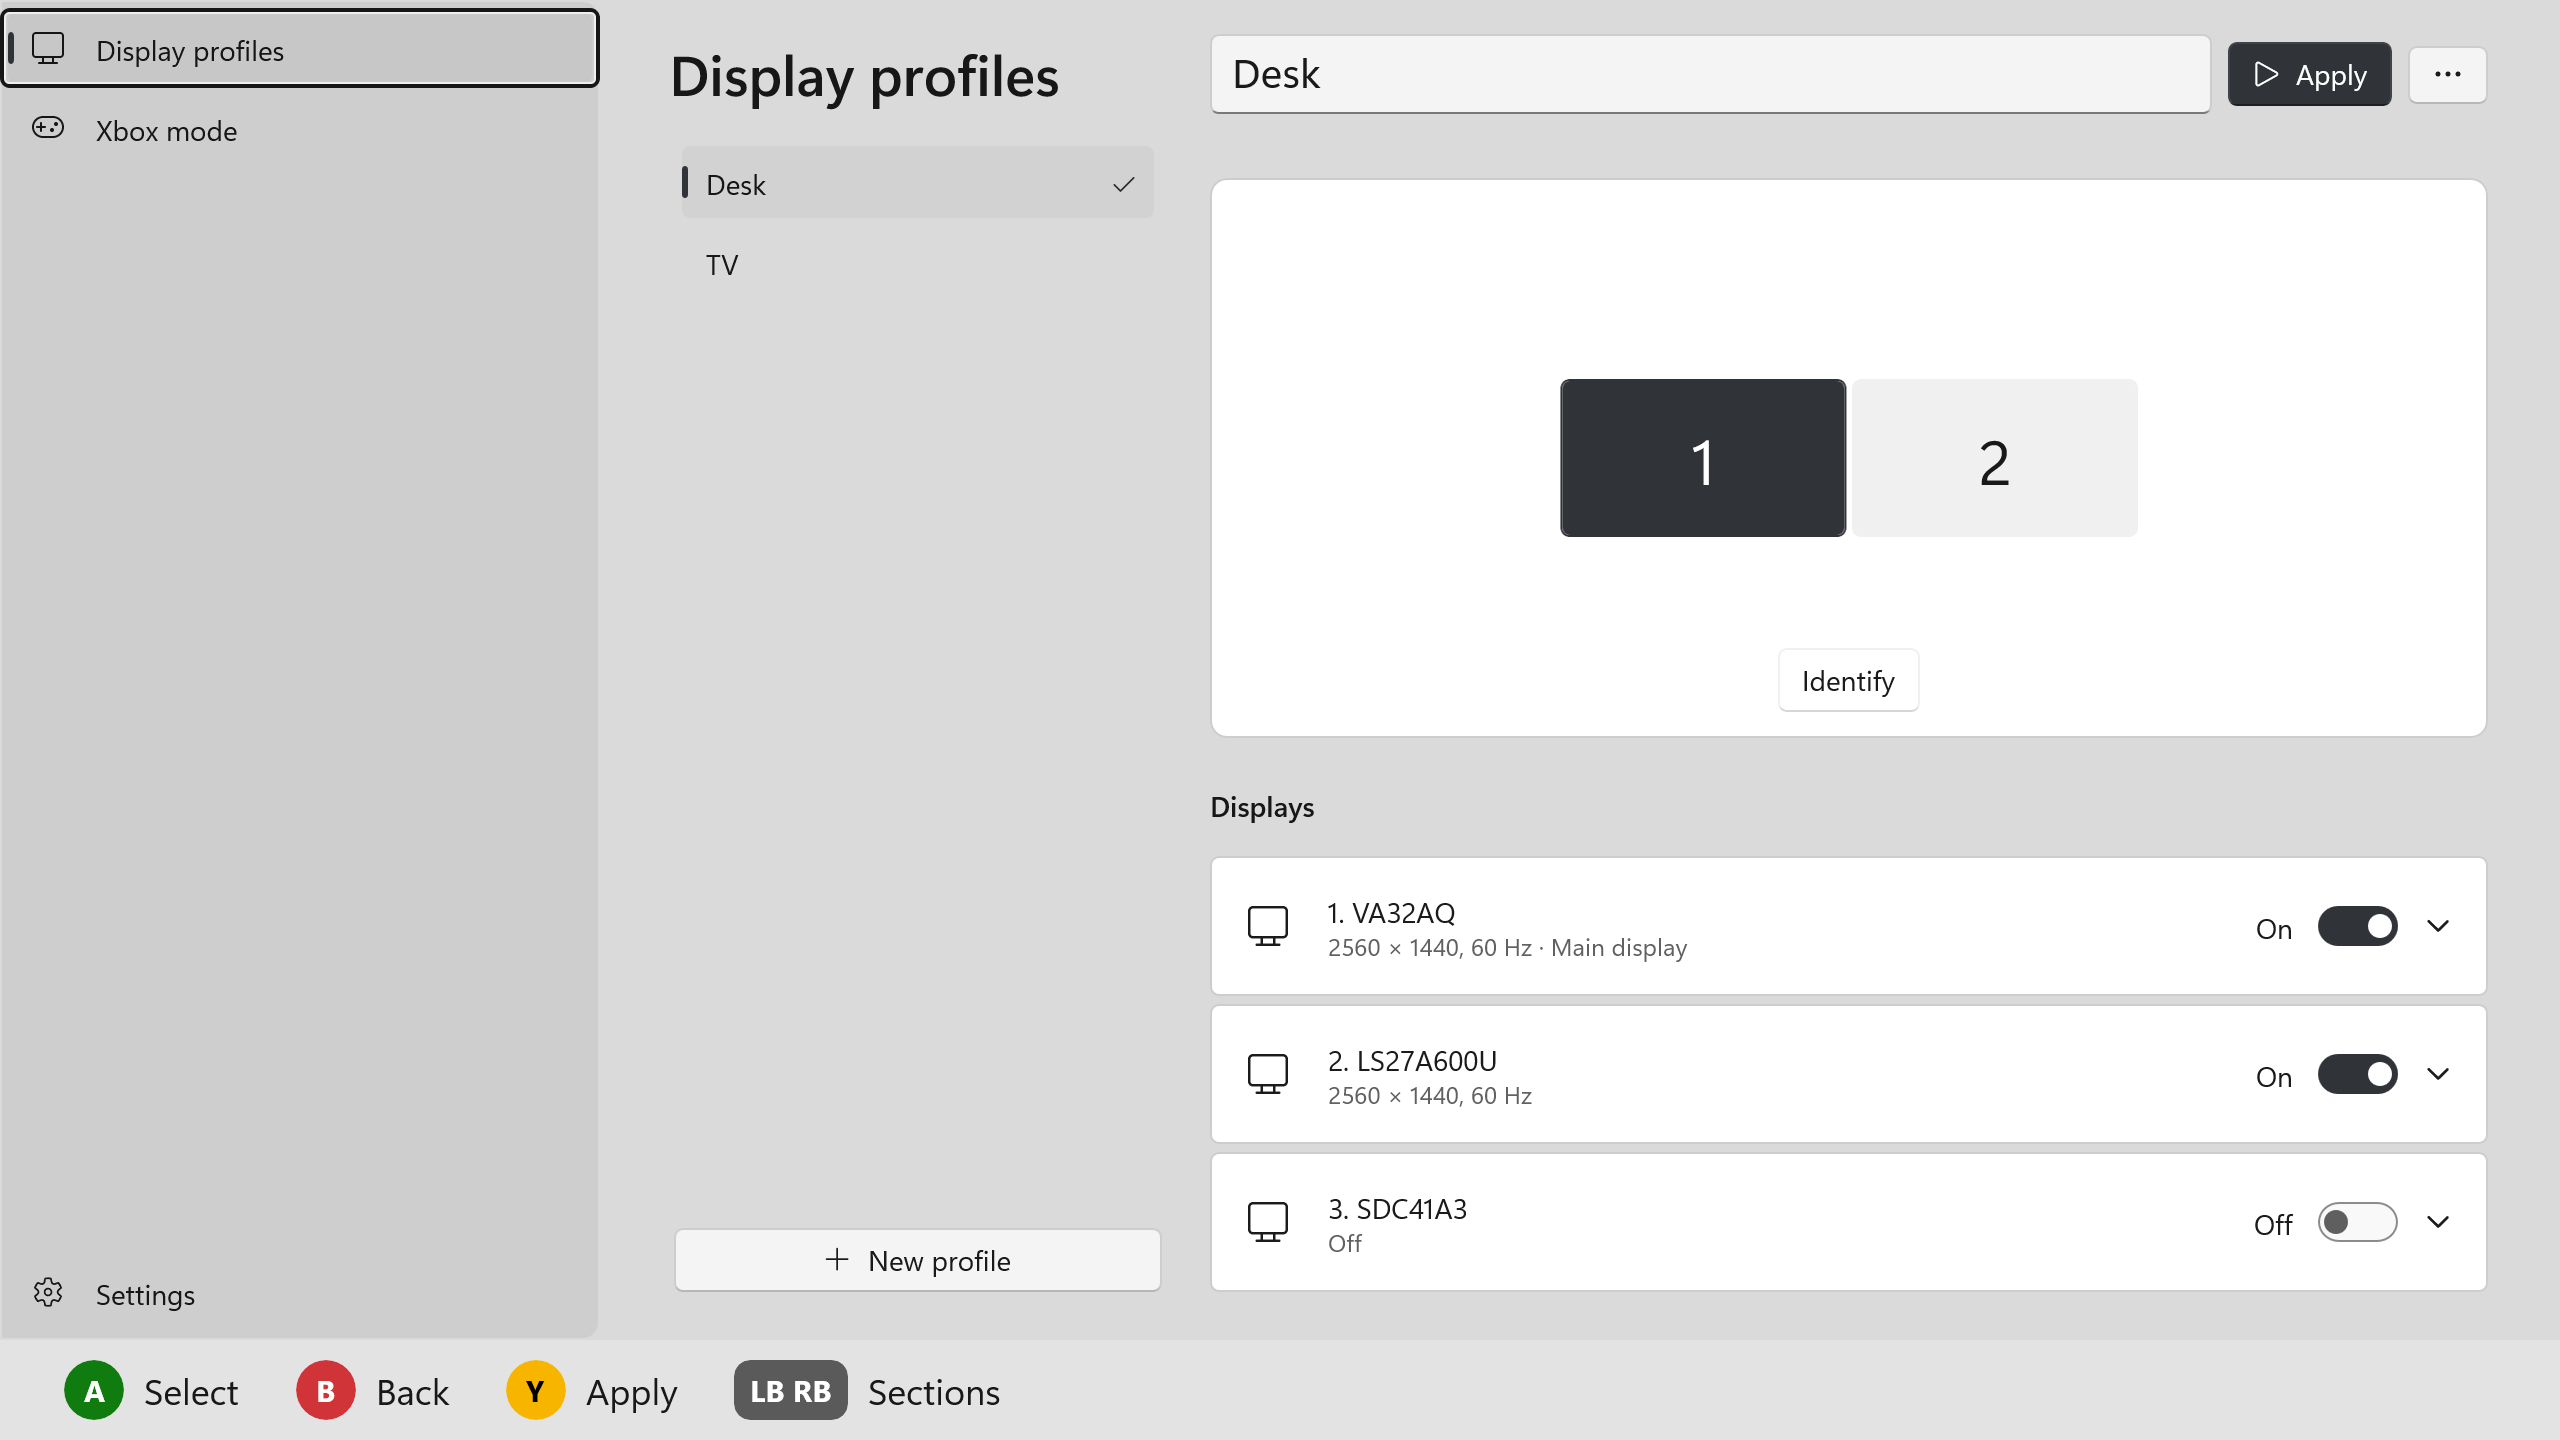
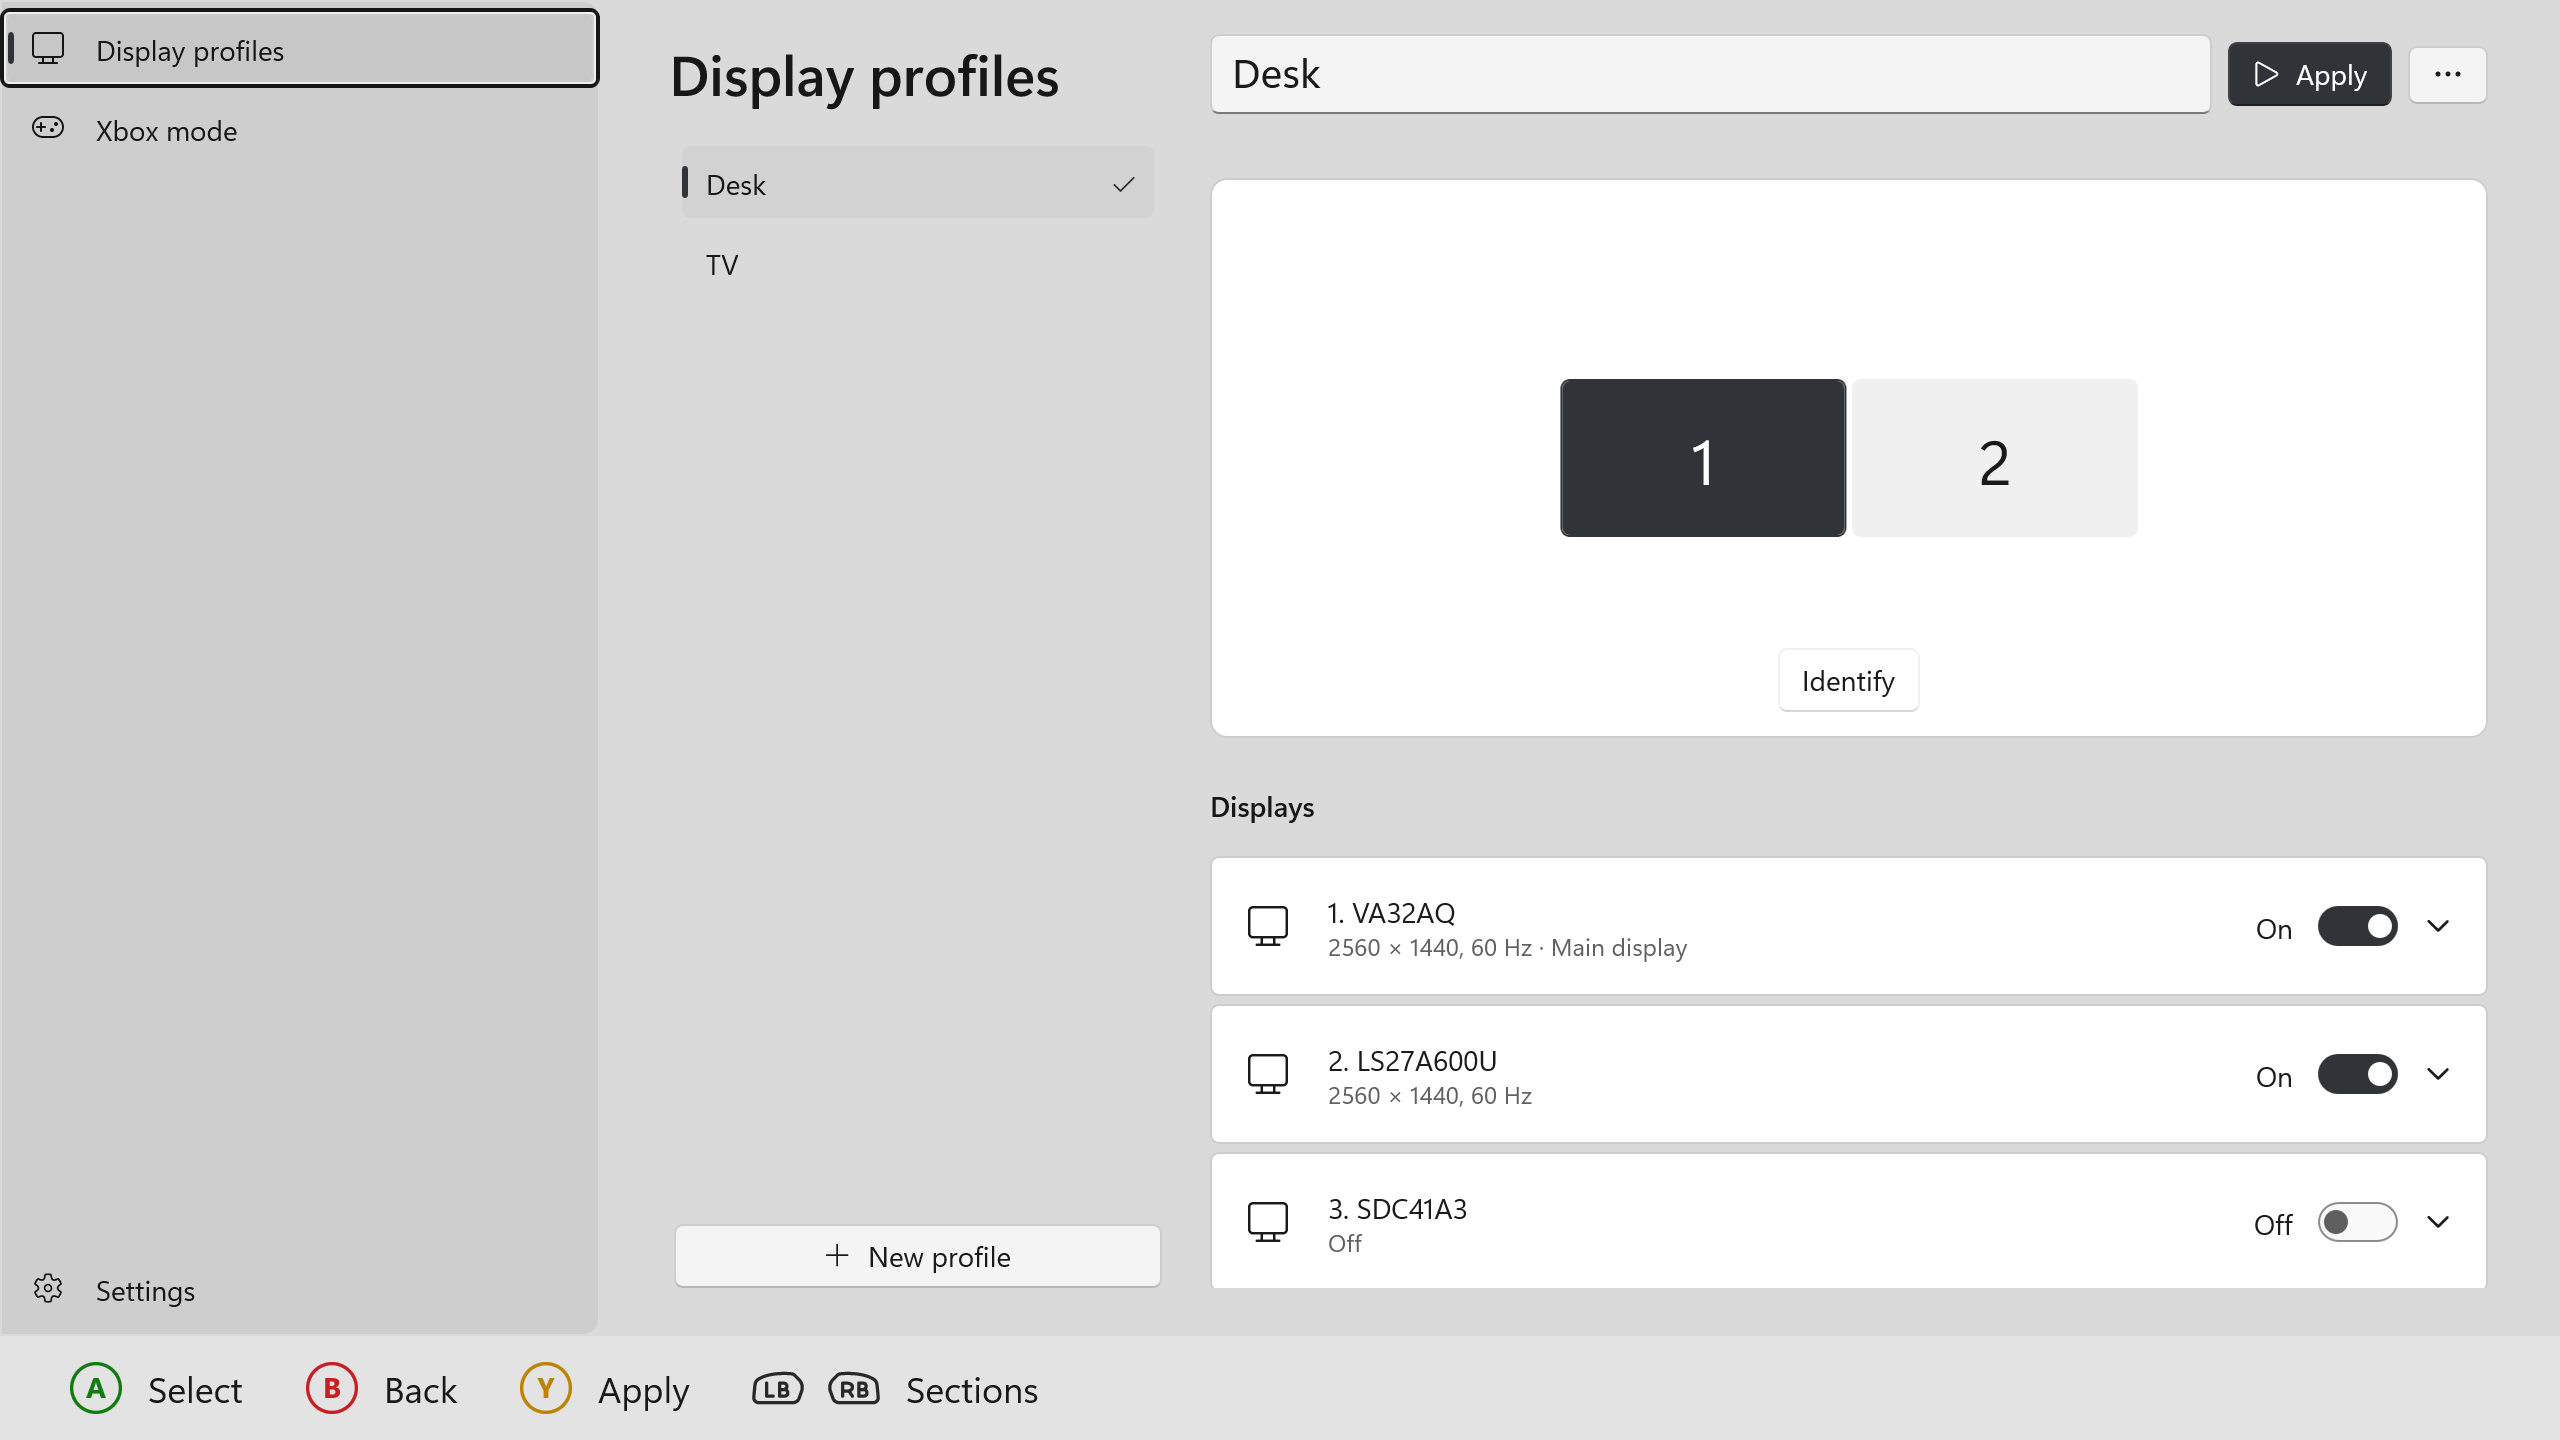
Controller prompts: Segoe Fluent gamepad glyphs, separate LB and RB (#6)
* Controller mode: outlined button prompts for the Dark and Light themes

Dark and Light show the prompts as coloured rings with a coloured letter, like the current Xbox app. Classic keeps the solid discs. Controller screenshots refreshed.

* Controller prompts: use the Segoe Fluent gamepad glyphs, separate LB and RB

The prompts use the gamepad button set that ships in Segoe Fluent Icons, so the letters are centred by the font, LB and RB are separate buttons and the D-pad has its own glyph. Dark and Light draw coloured rings; Classic keeps solid discs.

---------

diff --git a/src/DisplayProfiles.App/Controls/ControllerHints.xaml.cs b/src/DisplayProfiles.App/Controls/ControllerHints.xaml.cs
@@ -1,3 +1,4 @@
+using DisplayProfiles.Core.Model;
 using Microsoft.UI;
 using Microsoft.UI.Xaml;
 using Microsoft.UI.Xaml.Controls;
@@ -9,50 +10,49 @@ namespace DisplayProfiles.App.Controls;
 /// <summary>The row of controller button prompts along the bottom of the screen in controller mode ("A Select  B Back ...").</summary>
 public sealed partial class ControllerHints : UserControl
 {
+    // The button artwork is the gamepad set in Segoe Fluent Icons, which ships with Windows: a ring or pill with the label
+    // drawn inside, so the letters are centred by the font itself.
+    private static readonly Dictionary<string, string> Glyphs = new()
+    {
+        ["A"] = "\uF093",
+        ["B"] = "\uF094",
+        ["Y"] = "\uF095",
+        ["X"] = "\uF096",
+        ["LB"] = "\uF10C",
+        ["RB"] = "\uF10D",
+        ["LT"] = "\uF10A",
+        ["RT"] = "\uF10B",
+        ["DPAD"] = "\uF10E",
+    };
+
+    private const double GlyphSize = 26;
+
     public ControllerHints()
     {
         InitializeComponent();
     }
 
+    /// <summary>
+    /// Shows the prompts. A button can name several controls separated by spaces ("LB RB"), which are drawn as separate
+    /// buttons. "◄▲▼►" stands for the D-pad.
+    /// </summary>
     public void SetHints(IEnumerable<(string Button, string Text)> hints)
     {
+        var theme = App.Instance.Profiles.Data.Settings.ControllerTheme;
         Panel.Children.Clear();
         foreach (var (button, text) in hints)
         {
-            Panel.Children.Add(Chip(button, text));
+            Panel.Children.Add(Chip(button, text, theme));
         }
     }
 
-    private static StackPanel Chip(string button, string text)
+    private static StackPanel Chip(string button, string text, ControllerThemePreference theme)
     {
-        var (fill, foreground) = button switch
+        var buttons = new StackPanel { Orientation = Orientation.Horizontal, Spacing = 6, VerticalAlignment = VerticalAlignment.Center };
+        foreach (string token in button == "◄▲▼►" ? ["DPAD"] : button.Split(' ', StringSplitOptions.RemoveEmptyEntries))
         {
-            "A" => (Color.FromArgb(255, 16, 124, 16), Colors.White),
-            "B" => (Color.FromArgb(255, 209, 52, 56), Colors.White),
-            "X" => (Color.FromArgb(255, 0, 120, 212), Colors.White),
-            "Y" => (Color.FromArgb(255, 247, 181, 0), Colors.Black),
-            _ => (Color.FromArgb(255, 90, 90, 90), Colors.White),
-        };
-
-        bool round = button.Length == 1;
-        var badge = new Border
-        {
-            MinWidth = 30,
-            Height = 30,
-            Padding = round ? new Thickness(0) : new Thickness(8, 0, 8, 0),
-            CornerRadius = new CornerRadius(round ? 15 : 8),
-            Background = new SolidColorBrush(fill),
-            VerticalAlignment = VerticalAlignment.Center,
-            Child = new TextBlock
-            {
-                Text = button,
-                FontWeight = Microsoft.UI.Text.FontWeights.Bold,
-                FontSize = 15,
-                Foreground = new SolidColorBrush(foreground),
-                HorizontalAlignment = HorizontalAlignment.Center,
-                VerticalAlignment = VerticalAlignment.Center,
-            },
-        };
+            buttons.Children.Add(Button(token, theme));
+        }
 
         var label = new TextBlock
         {
@@ -61,6 +61,60 @@ public sealed partial class ControllerHints : UserControl
             VerticalAlignment = VerticalAlignment.Center,
         };
 
-        return new StackPanel { Orientation = Orientation.Horizontal, Spacing = 10, Children = { badge, label } };
+        return new StackPanel { Orientation = Orientation.Horizontal, Spacing = 10, Children = { buttons, label } };
     }
+
+    private static Grid Button(string token, ControllerThemePreference theme)
+    {
+        bool classic = theme == ControllerThemePreference.Classic;
+        bool light = theme == ControllerThemePreference.Light;
+        var icon = new FontIcon
+        {
+            FontFamily = new FontFamily("Segoe Fluent Icons"),
+            Glyph = Glyphs.GetValueOrDefault(token, token),
+            FontSize = GlyphSize,
+            HorizontalAlignment = HorizontalAlignment.Center,
+            VerticalAlignment = VerticalAlignment.Center,
+        };
+
+        bool isFace = token is "A" or "B" or "X" or "Y";
+        if (classic && isFace)
+        {
+            // Classic: a solid coloured disc with the letter ring inside it.
+            var (fill, ink) = FaceColors(token, light: false, classic: true);
+            icon.Foreground = new SolidColorBrush(ink);
+            return new Grid
+            {
+                Width = 32,
+                Height = 32,
+                Children =
+                {
+                    new Microsoft.UI.Xaml.Shapes.Ellipse { Width = 30, Height = 30, Fill = new SolidColorBrush(fill) },
+                    icon,
+                },
+            };
+        }
+
+        // Dark and Light: the glyph itself, as a coloured ring and letter.
+        icon.Foreground = new SolidColorBrush(isFace ? FaceColors(token, light, classic: false).Fill : Neutral(light));
+        return new Grid { Height = 32, MinWidth = 32, Children = { icon } };
+    }
+
+    private static (Color Fill, Color Ink) FaceColors(string token, bool light, bool classic) => (token, light, classic) switch
+    {
+        ("A", _, true) => (Color.FromArgb(255, 16, 124, 16), Colors.White),
+        ("B", _, true) => (Color.FromArgb(255, 209, 52, 56), Colors.White),
+        ("X", _, true) => (Color.FromArgb(255, 0, 120, 212), Colors.White),
+        ("Y", _, true) => (Color.FromArgb(255, 247, 181, 0), Colors.Black),
+        ("A", false, _) => (Color.FromArgb(255, 110, 200, 90), Colors.White),
+        ("B", false, _) => (Color.FromArgb(255, 235, 60, 60), Colors.White),
+        ("X", false, _) => (Color.FromArgb(255, 80, 160, 240), Colors.White),
+        ("Y", false, _) => (Color.FromArgb(255, 250, 190, 20), Colors.White),
+        ("A", true, _) => (Color.FromArgb(255, 16, 124, 16), Colors.White),
+        ("B", true, _) => (Color.FromArgb(255, 200, 30, 35), Colors.White),
+        ("X", true, _) => (Color.FromArgb(255, 0, 100, 190), Colors.White),
+        _ => (Color.FromArgb(255, 190, 130, 0), Colors.White),
+    };
+
+    private static Color Neutral(bool light) => light ? Color.FromArgb(255, 40, 40, 40) : Color.FromArgb(255, 235, 235, 235);
 }
